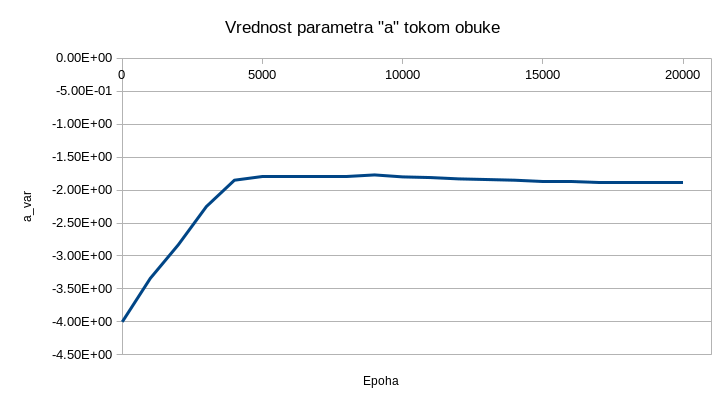
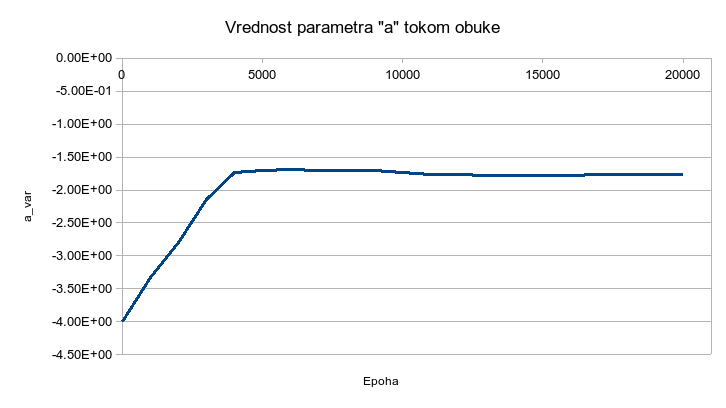
Dodata brzina vetra

diff --git a/primeri/solari/pvwatts.py b/primeri/solari/pvwatts.py
@@ -61,6 +61,7 @@ eta_inv_nom = 0.96
 eta_inv_ref = 0.9637
 pac0_inv = eta_inv_nom * pdc0_inv # maximum inverter capacity
 a = -2.98 # cell temperature parameter
+b = -0.0471 # Wind coefficient
 E0 = 1000 # reference irradiance
 deltaT = 1 # cell temperature parameter
 num_of_panels = 146 # Broj panela u instalaciji
@@ -75,7 +76,7 @@ def pvwatts_eq(x, y):
     Ta = x[:,0:1] # Temperatura vazduha
     E = x[:,1:2] # Ukupna POA osuncanost
     
-    Tm = E * tf.exp(a_var) + Ta # Nemamo brzinu vetra
+    Tm = E * tf.exp(a_var+b*2) + Ta  # Brzina vetra od 2m/s uzeta ako prosek
     Tc = Tm + E/E0*deltaT
     P_dc_temp = ((Tc-Tref) * gamma_pdc + 1)
     P_dc = (E * 1.e-03 * pdc0 * P_dc_temp) * num_of_panels
@@ -94,7 +95,7 @@ def orig_pvwatts_model(x):
     Ta = x[:,0:1] # Temperatura
     E = x[:,1:2] # Ukupna POA osuncanost
     
-    Tm = E * np.exp(a) + Ta # Nemamo brzinu vetra
+    Tm = E * np.exp(a+b*2) + Ta # Nemamo brzinu vetra
     Tc = Tm + E/E0*deltaT
     P_dc_temp = ((Tc-Tref) * gamma_pdc + 1.)
     P_dc = (E * 1.e-03 * pdc0 * P_dc_temp) * num_of_panels

diff --git a/solari/4-rezultati.rst b/solari/4-rezultati.rst
@@ -12,7 +12,7 @@
 
     Поређење ФПНМ модела и чистог *PVWAtts* модела са мереном производњом
 
-Очигледно је да ФПНМ модел даје боље резултате од чистог *PVWatts* модела. То потврђује и грешка која је спуштена са 2,46kW на 1,92kW. Илустрације ради, дајемо и вредност параметра ``a_var`` током обуке на :numref:`a_var`. Уместо вредности из литературе -2,98, испоставља се да подацима више одговара вредност од око -1,89. 
+Очигледно је да ФПНМ модел даје боље резултате од чистог *PVWatts* модела. То потврђује и грешка која је спуштена са 2,51kW на 1,92kW. Илустрације ради, дајемо и вредност параметра ``a_var`` током обуке на :numref:`a_var`. Уместо вредности из литературе -2,98, испоставља се да подацима више одговара вредност од око -1,78. 
 
 .. _a_var:
 
